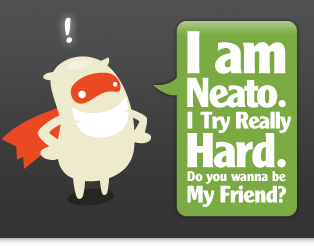
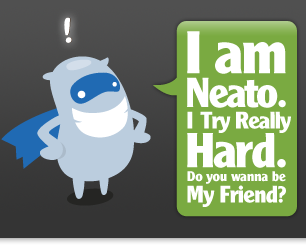
added a 404 image and changed site header.

Changed region(s): [[0.4706, 0.0854, 0.9706, 0.8821], [0.0, 0.2276, 0.5, 0.8252], [0.2059, 0.0569, 0.2353, 0.1707]]

diff --git a/views/stylesheets/styles.sass b/views/stylesheets/styles.sass
@@ -8,7 +8,7 @@ body
   text-align: left
   height: 100%
   padding: 0
-  margin: 0 0 40px 0
+  margin: 0
 
 h2
   font-size: 1.7em
@@ -60,6 +60,7 @@ ol
 
 #menu-wrapper
   background-color: #262626
+  border-bottom: 1px solid #585858
   overflow: hidden
 
 #menu
@@ -101,7 +102,7 @@ ol
   margin: 0 auto
   text-indent: -5000px
   height: 246px
-  width: 350px
+  width: 306px
 
 #subscribe
   float: right
@@ -145,6 +146,15 @@ ol
   li
     font-size: 0.85em 
     margin-bottom: 10px
+
+#four-oh-four
+  position: absolute
+  top: 50%
+  left: 50%
+  width: 364px
+  height: 448px
+  margin-top= -(448px/2)
+  margin-left= -(364px/2)
 
 / RUBY / JAVASCRIPT
 code span

diff --git a/iamneato.rb b/iamneato.rb
@@ -64,6 +64,7 @@ get '/:style.css' do
 end
 
 not_found do
+  @title = '404 - Page Not Found'
   haml :'404', :layout => false
 end
 
